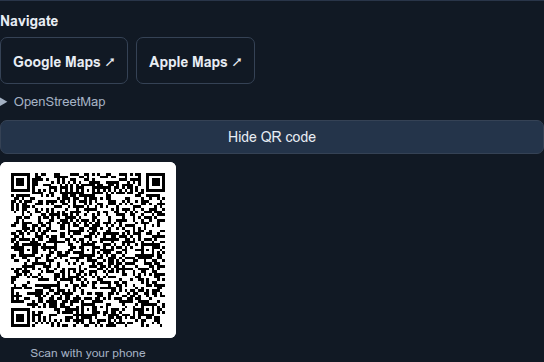
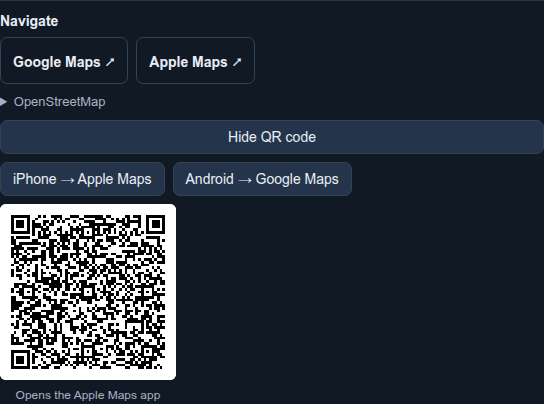
test(browser): scan the phone-kind picker as the single QR contract ships; wait out live road fetches

Changed region(s): [[0.0, 0.0304, 1.0, 1.0]]

diff --git a/tests/browser/run.py b/tests/browser/run.py
@@ -68,9 +68,11 @@ try:
         expect(page.locator('#pane section[data-revision]')).to_be_attached()
         def current():
             return page.request.get(f'http://127.0.0.1:{port}/api/current').json()
-        def act(control):
-            """One deliberate click edits the route; wait for the write and the refresh."""
-            with page.expect_response(lambda r: '/api/actions/' in r.url and '/search_locations' not in r.url) as response:
+        def act(control, timeout_ms=240_000):
+            """One deliberate click edits the route; wait for the write and the
+            refresh. The first plan can fetch roads live, so the write wait
+            must cover a cold download, not just a solve."""
+            with page.expect_response(lambda r: '/api/actions/' in r.url and '/search_locations' not in r.url, timeout=timeout_ms) as response:
                 control.click()
             result = response.value.json()
             assert result['ok'], result
@@ -222,7 +224,23 @@ try:
         qr_svg.screenshot(path=str(qr_path))
         screenshots.append(str(qr_path))
         decoded, corners, _ = cv2.QRCodeDetector().detectAndDecode(cv2.imread(str(qr_path)))
-        assert corners is not None and decoded == navigation['google_mobile']['legs'][0]['url'], decoded
+        # The phone kind is picked before the scan: the Apple code is the
+        # default whenever an Apple leg carries one, so the first code the
+        # camera sees is Apple's, and only the Android pill swaps providers.
+        apple_first = navigation['apple']['legs'][0]
+        default_url = apple_first['url'] if apple_first.get('qr') else navigation['google_mobile']['legs'][0]['url']
+        assert corners is not None and decoded == default_url, decoded
+        # The provider pill swaps what the camera sees, exactly one code on
+        # screen either way.
+        page.get_by_role('button', name='Android → Google Maps').click()
+        qr_svg = page.locator('svg[role=img]').first
+        qr_svg.scroll_into_view_if_needed()
+        google_qr_path = ARTIFACTS / 'navigation-qr-google.png'
+        qr_svg.screenshot(path=str(google_qr_path))
+        screenshots.append(str(google_qr_path))
+        google_decoded, google_corners, _ = cv2.QRCodeDetector().detectAndDecode(cv2.imread(str(google_qr_path)))
+        assert google_corners is not None and google_decoded == navigation['google_mobile']['legs'][0]['url'], google_decoded
+        page.get_by_role('button', name='iPhone → Apple Maps').click()
         handoff_path = ARTIFACTS / 'navigation-handoff.png'
         page.get_by_role('heading', name='Navigate', exact=True).locator('..').screenshot(path=str(handoff_path))
         screenshots.append(str(handoff_path))
@@ -395,7 +413,9 @@ try:
         assert all(geo.distance_m(s['coordinates'], pin['coordinates']) < 15000 for s in batch_solved['state']['stops'])
         assert comparison['savings_seconds'] == comparison['given_duration_seconds'] - solution['duration_seconds'], comparison
         assert len(solution['legs']) >= 4, solution['legs']  # round trip: origin, stops, return home
-        assert frame.locator('.leaflet-overlay-pane path').count() == len(solution['legs'])
+        # The docked map follows the solved document on its own poll; retry
+        # the count until the pane has drawn exactly one line per hop.
+        expect(frame.locator('.leaflet-overlay-pane path')).to_have_count(len(solution['legs']), timeout=15000)
         if comparison['message']:
             assert comparison['savings_seconds'] >= 60 and comparison['given_respects_locks'] and not comparison['same_as_given']
             expect(page.get_by_text(comparison['message'], exact=True)).to_be_visible()
